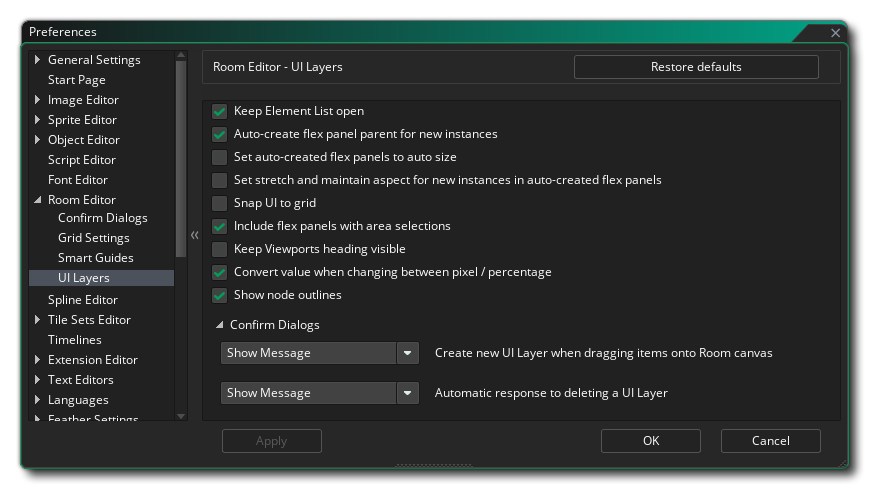
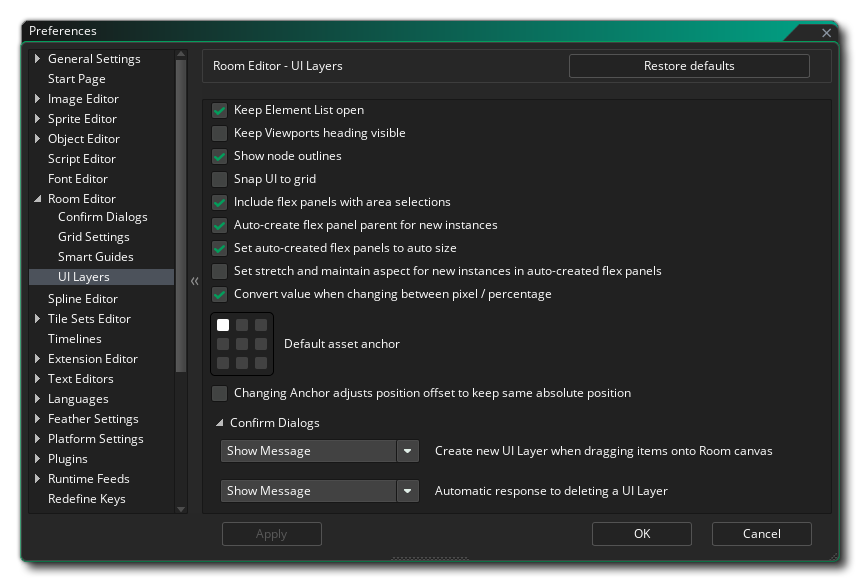
docs(feature): New UI layers preferences https://github.com/YoYoGames/GameMaker-Bugs/issues/9774 https://github.com/YoYoGames/GameMaker-Bugs/issues/9698

Changed region(s): [[0.0, 0.0307, 0.9977, 1.0]]

diff --git a/Manual/contents/Setting_Up_And_Version_Information/IDE_Preferences/Room_Editor_Preferences.htm b/Manual/contents/Setting_Up_And_Version_Information/IDE_Preferences/Room_Editor_Preferences.htm
@@ -86,14 +86,16 @@
     <p class="dropspot"><img class="center" src="../../assets/Images/Setup_And_Version/Preferences/Room_Editor_UIL.png" /></p>
     <ul class="colour">
       <li class="dropspot"><strong>Keep Element List open</strong>: After deleting all UI layers, the Element List closes automatically. Enable this option to keep the Element List open even when all UI layers have been deleted.</li>
+      <li class="dropspot"><strong>Keep Viewports heading visible</strong>: When this is enabled, the &quot;Viewports&quot; header is displayed in the Element List even when there are no viewport layers present.</li>
+      <li class="dropspot"><strong>Show node outlines</strong>: Whether the outlines for Flex Panels should be shown or not. This is the same as the option displayed in the <a data-xref="{text}" href="../../The_Asset_Editors/Room_Properties/UI_Layers.htm#h">Toolbox</a>.</li>
+      <li class="dropspot"><strong>Snap UI to grid</strong>: Whether to snap UI items to the room grid or not.</li>
+      <li class="dropspot"><strong>Include flex panels with area selections</strong>: When performing an area selection in the room (<span class="shortcut">Shift + Drag</span>), this controls whether Flex Panels are included in the selection. When disabled, only assets are selected.</li>
       <li class="dropspot"><strong>Auto-create flex panel parent for new instances</strong>: If this is enabled, when you drop an asset into the canvas or Element List, it will be placed inside a new Flex Panel. This is enabled by default.</li>
       <li class="dropspot"><strong>Set auto-created flex panels to auto size</strong>: If this is enabled, any Flex Panels that the editor automatically creates for new assets (only if the previous preference is enabled) will be created with the width and height set to auto. This is enabled by default.</li>
       <li class="dropspot"><strong>Set stretch and maintain aspect for new instances in auto-created flex panels</strong>: If this is enabled and the &quot;<strong>Auto create flex panel parent for new instances</strong>&quot; preference is enabled, any assets dropped into the layer will have their &quot;<strong>Stretch</strong>&quot; property set to &quot;<strong>Both</strong>&quot; and &quot;<strong>Maintain Aspect Ratio</strong>&quot; will be enabled.</li>
-      <li class="dropspot"><strong>Snap UI to grid</strong>: Whether to snap UI items to the room grid or not.</li>
-      <li class="dropspot"><strong>Include flex panels with area selections</strong>: When performing an area selection in the room (<span class="shortcut">Shift + Drag</span>), this controls whether Flex Panels are included in the selection. When disabled, only assets are selected.</li>
-      <li class="dropspot"><strong>Keep Viewports heading visible</strong>: When this is enabled, the &quot;Viewports&quot; header is displayed in the Element List even when there are no viewport layers present.</li>
       <li class="dropspot"><strong>Convert value when changing between pixel / percentage</strong>: When changing the unit of a property from pixels to percentage or vice versa, enabling this ensures that the value is converted between the units so the area covered remains unchanged.</li>
-      <li class="dropspot"><strong>Show node outlines</strong>: Whether the outlines for Flex Panels should be shown or not. This is the same as the option displayed in the <a data-xref="{text}" href="../../The_Asset_Editors/Room_Properties/UI_Layers.htm#h">Toolbox</a>.</li>
+      <li class="dropspot"><strong>Default asset anchor</strong>: The default anchor value used for asset elements</li>
+      <li class="dropspot"><strong>Changing Anchor adjusts position offset to keep same absolute position</strong>: If enabled, changing the anchor for an asset element will modify its position values so that the final position of the asset remains the same. If disabled, changing the asset anchor will result in the asset moving to a different position as its position is relative to its anchor.</li>
       <li class="dropspot"><strong>Confirm Dialogs</strong>
         <ul>
           <li class="dropspot"><strong>Create new UI Layer when dragging items onto Room canvas</strong>: When placing an asset in the canvas outside of any existing UI layers or Flex Panels, you are prompted to create a new layer. You can disable that prompt and choose an automatic option for that behaviour by setting this option to &quot;<strong>Yes</strong>&quot; or &quot;<strong>No</strong>&quot;.</li>
